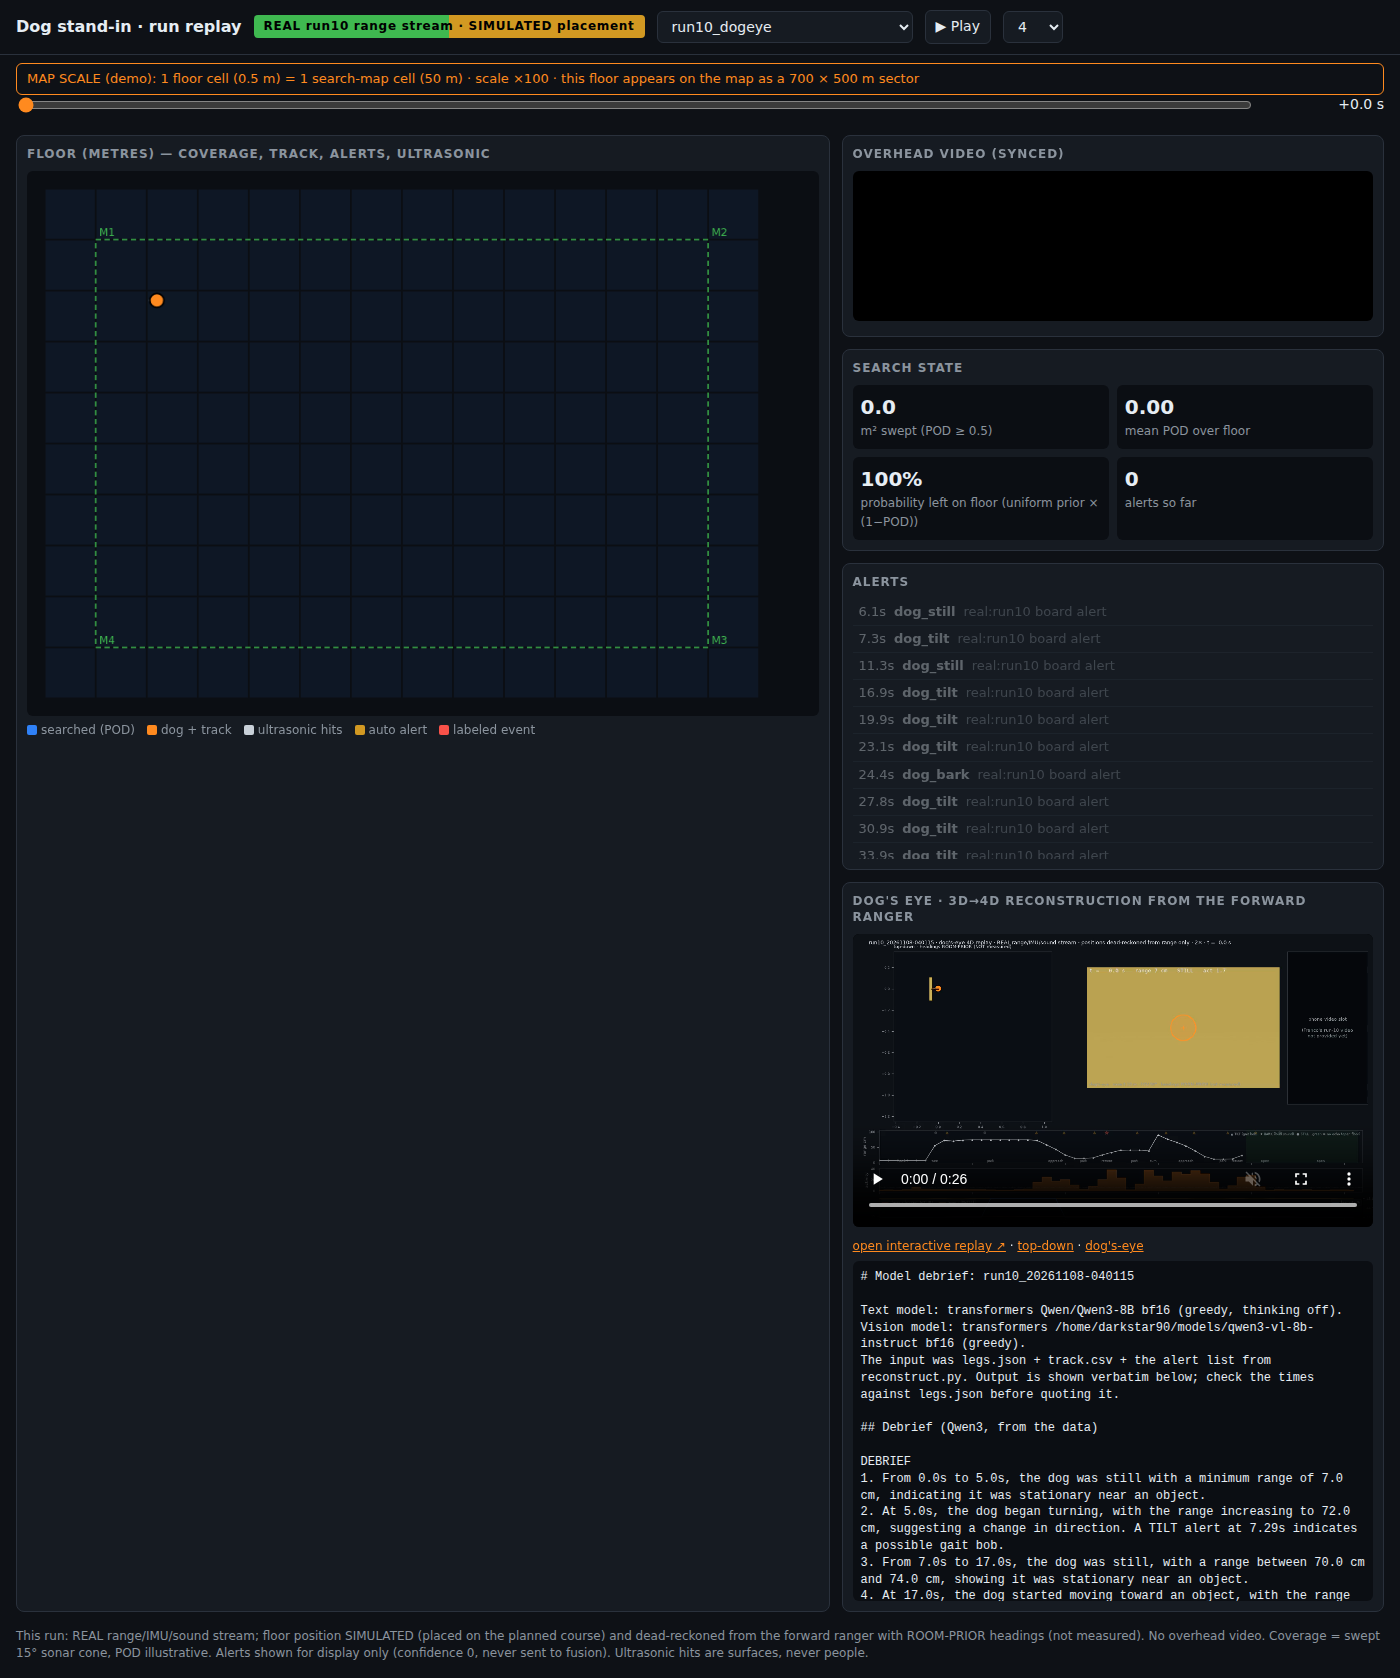
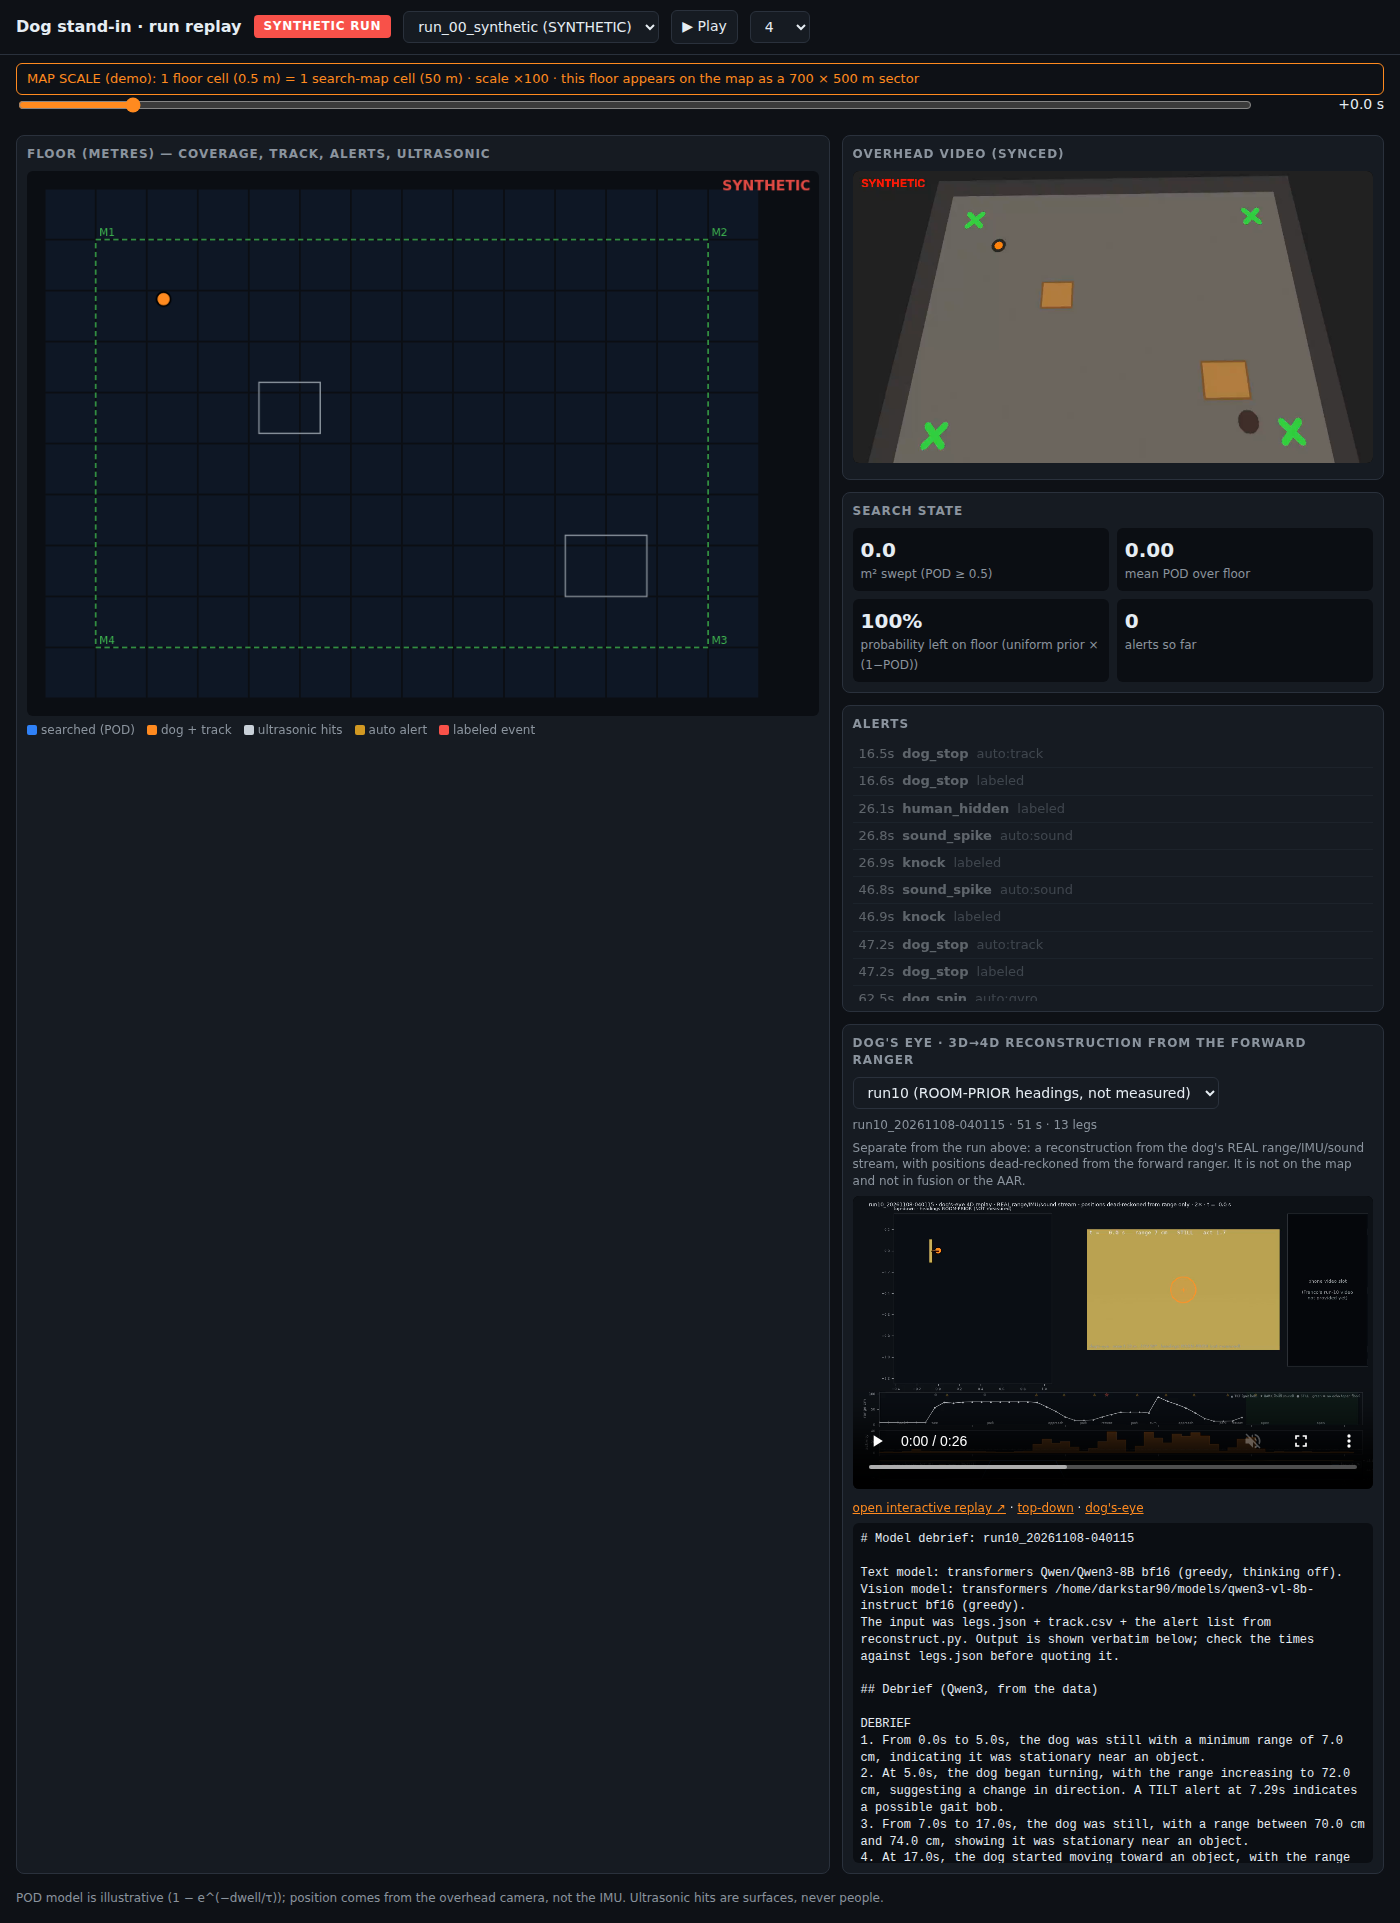
night: :8141 Dog's-eye card reads dogeye/out/ directly, independent of data/dog (demo dog run stays synthetic)

diff --git a/spark/night/code/dog/replay.html b/spark/night/code/dog/replay.html
@@ -10,7 +10,7 @@
 header{display:flex;gap:12px;align-items:center;padding:10px 16px;border-bottom:1px solid var(--line);flex-wrap:wrap}
 h1{font-size:16px;margin:0;font-weight:600}
 .badge{padding:3px 10px;border-radius:4px;font-weight:700;letter-spacing:.06em;font-size:12px}
-.syn{background:var(--bad);color:#fff}.real{background:var(--ok);color:#000}
+.syn{background:var(--bad);color:#fff}.real{background:var(--ok);color:#000}.mix{background:linear-gradient(90deg,var(--ok) 50%,var(--warn) 50%);color:#000}
 select,button{background:var(--panel);color:var(--fg);border:1px solid var(--line);border-radius:6px;padding:6px 10px;font:inherit}
 button{cursor:pointer}button:hover{border-color:var(--acc)}
 main{display:grid;grid-template-columns:minmax(0,1.5fr) minmax(280px,1fr);gap:12px;padding:12px 16px}
@@ -67,6 +67,15 @@ footer{color:var(--mute);font-size:12px;padding:4px 16px 16px}
       </div>
     </div>
     <div class="card"><h2>Alerts</h2><ul id="alerts"></ul></div>
+    <div class="card" id="dogeye" hidden><h2>Dog's eye · 3D→4D reconstruction from the forward ranger</h2>
+      <div style="display:flex;gap:8px;align-items:center;margin-bottom:6px;flex-wrap:wrap"><select id="desel" aria-label="Reconstruction"></select>
+        <span id="demeta" style="color:var(--mute);font-size:12px"></span></div>
+      <div style="color:var(--mute);font-size:12px;margin-bottom:6px">Separate from the run above: a reconstruction from the dog's REAL range/IMU/sound stream, with positions dead-reckoned from the forward ranger. It is not on the map and not in fusion or the AAR.</div>
+      <video id="devid" controls muted playsinline preload="metadata"></video>
+      <div style="margin:6px 0;font-size:12px"><a id="dehtml" target="_blank" style="color:var(--acc)">open interactive replay ↗</a> ·
+        <a id="detop" target="_blank" style="color:var(--acc)">top-down</a> · <a id="deeye" target="_blank" style="color:var(--acc)">dog's-eye</a></div>
+      <pre id="deintel" style="white-space:pre-wrap;font-size:12px;max-height:340px;overflow:auto;background:#0b0e13;padding:8px;border-radius:6px;margin:0"></pre>
+    </div>
   </div>
 </main>
 <footer id="foot">POD model is illustrative (1 − e^(−dwell/τ)); position comes from the overhead camera, not the IMU. Ultrasonic hits are surfaces, never people.</footer>
@@ -85,10 +94,22 @@ async function scaleLabel(){ try{ const k=await (await fetch('api/scale')).json(
  }catch(e){ $('scalebar').textContent='map scale: unavailable'; } }
 async function load(name){
   runName=name; L=await (await fetch(`api/run/${name}/layers`)).json();
-  $('badge').textContent=L.synthetic?'SYNTHETIC RUN':'REAL RUN'; $('badge').className='badge '+(L.synthetic?'syn':'real');
+  $('badge').textContent=L.badge||(L.synthetic?'SYNTHETIC RUN':'REAL RUN'); $('badge').className='badge '+(L.synthetic?'syn':(L.placement==='SIMULATED'?'mix':'real'));
   $('vid').src=`api/run/${name}/video`; t=L.t_start_ms; draw(); scaleLabel();
 }
 $('run').onchange=e=>load(e.target.value);
+let DE=[];
+async function loadDogEye(){ try{ DE=await (await fetch('api/dogeye')).json(); }catch(e){ DE=[]; }
+  if(!DE.length){ $('dogeye').hidden=true; return; }
+  $('dogeye').hidden=false;
+  $('desel').innerHTML=DE.map(d=>`<option value="${d.name}">${d.name} (${d.headings==='room_prior'?'ROOM-PRIOR headings, not measured':'SENSOR-ONLY, 90° turns assumed'})</option>`).join('');
+  $('desel').onchange=e=>showDogEye(e.target.value); showDogEye(DE[0].name); }
+async function showDogEye(name){ const d=DE.find(x=>x.name===name), b=`api/dogeye/${name}/`, has=f=>d.files.includes(f);
+  $('demeta').textContent=`${d.run} · ${d.duration_s} s · ${d.legs} legs`;
+  if(has('replay.mp4')) $('devid').src=b+'replay.mp4'; else $('devid').removeAttribute('src');
+  $('dehtml').href=b+'replay.html'; $('detop').href=b+'topdown.png'; $('deeye').href=b+'dogseye.png';
+  if(!has('intel.md')){ $('deintel').textContent='intel.md not generated for this reconstruction'; return; }
+  try{ const r=await fetch(b+'intel.md'); $('deintel').textContent=r.ok?await r.text():'intel.md unavailable'; }catch(e){ $('deintel').textContent='intel.md unavailable'; } }
 function W2C(){ const [x0,y0,x1,y1]=L.floor_bounds, pad=20; const s=Math.min((cv.width-2*pad)/(x1-x0),(cv.height-2*pad)/(y1-y0));
   return {s, f:(x,y)=>[pad+(x-x0)*s, pad+(y-y0)*s]}; }
 function snapAt(tm){ const S=L.coverage.snapshots; let lo=0,hi=S.length-1; if(tm<S[0].t_ms) return null;
@@ -139,7 +160,7 @@ $('play').onclick=()=>{ playing=!playing; $('play').textContent=playing?'❚❚ 
 $('speed').onchange=()=>{$('vid').playbackRate=+$('speed').value};
 function tick(now){ if(playing&&L){ t+=(now-last)*(+$('speed').value); if(t>=L.t_end_ms){t=L.t_end_ms; playing=false; $('play').textContent='▶ Play'; $('vid').pause();}
     const v=$('vid'); if(!v.paused && Math.abs(v.currentTime-(t-L.offset_ms)/1000)>0.4) v.currentTime=(t-L.offset_ms)/1000; draw(); } last=now; requestAnimationFrame(tick); }
-requestAnimationFrame(tick); loadRuns();
+requestAnimationFrame(tick); loadRuns(); loadDogEye();
 </script>
 </body>
 </html>

diff --git a/spark/night/code/dog/serve.py b/spark/night/code/dog/serve.py
@@ -46,6 +46,39 @@ def video(name: str):
     return FileResponse(p, media_type="video/mp4")
 
 
+DOGEYE_FILES = {"replay.mp4": "video/mp4", "intel.md": "text/markdown; charset=utf-8", "topdown.png": "image/png",
+                "dogseye.png": "image/png", "replay.html": "text/html; charset=utf-8"}
+
+
+DOGEYE_OUT = HERE.parent / "dogeye/out"     # read-only; independent of data/dog (never feeds map, AAR or scenario)
+
+
+@app.get("/api/dogeye")
+def dogeye_list():
+    """Every dog's-eye reconstruction under night/dogeye/out/ that has a legs.json."""
+    out = []
+    for d in sorted(DOGEYE_OUT.glob("*/legs.json")):
+        try:
+            m = json.loads(d.read_text())
+        except Exception:
+            continue
+        sol = "room_prior" if "room_prior" in m.get("solutions", {}) else "sensor_only"
+        out.append({"name": d.parent.name, "run": m.get("run"), "duration_s": m.get("duration_s"),
+                    "legs": len(m.get("legs", [])), "headings": sol,
+                    "files": [f for f in DOGEYE_FILES if (d.parent / f).exists()]})
+    return out
+
+
+@app.get("/api/dogeye/{name}/{fname}")
+def dogeye_file(name: str, fname: str):
+    if fname not in DOGEYE_FILES:
+        raise HTTPException(404)
+    root = DOGEYE_OUT.resolve(); p = (root / name / fname).resolve()
+    if p.parent.parent != root or not p.exists():
+        raise HTTPException(404)
+    return FileResponse(p, media_type=DOGEYE_FILES[fname])
+
+
 @app.get("/api/scale")
 def scale():
     """Floor -> search-map scaling used by fusion and the map (config.json floor_anchor.scale)."""

diff --git a/spark/night/dogeye/README.md b/spark/night/dogeye/README.md
@@ -10,7 +10,7 @@ $P reconstruct.py $R/run10_20261108-040115 out/run10 --room-prior   # legs.json,
 $P scene.py  out/run10                                              # scene.ply, scene.glb, topdown.png, dogseye.png
 $P fourd.py  out/run10                                              # replay.mp4 (26 s, 30 fps, 2×), replay.html
 $P intel.py  out/run10                                              # intel.md (Qwen3-8B debrief + Qwen3-VL reading + fact check)
-$P cop_export.py out/run10 run10_dogeye                             # → night/data/dog/run10_dogeye/layers.json (COP coverage)
+# optional, NOT installed: $P cop_export.py out/run10 run10_dogeye  (would put run 10 into the map/AAR/scenario)
 ```
 The same pipeline runs on walk1 without `--room-prior`, and with `fourd.py --speed 4` (70 s video).
 
@@ -52,11 +52,10 @@ The brief matches the data except for small details. The first MOVING heartbeats
 ## Open model on top (`intel.py`)
 vLLM on :8001 and :8002 was down, so both models ran locally with transformers, bf16 and greedy decoding: **Qwen3-8B** (loads in about 85 s, generates in 65 s) for the debrief, and **Qwen3-VL-8B-Instruct** (`~/models/qwen3-vl-8b-instruct`; the HF-cache copy has no weights) for reading the renders. The prompt requires 10 debrief lines that cite times and ranges, plus the three flags. The model's output is kept verbatim. **Below it, `intel.md` adds a fact check computed by code from track.csv, because the model got some of the details wrong.** In flag A it listed 3 TILTs and called the 6.1 s STILL alert a TILT; the data has 8 of 9 TILTs while MOVING. In flag C it said the last range before echo loss was 12 cm; it was 23 cm at 39 s. The VL answer is labelled **"model reading of a rendered reconstruction, not of the room."**
 
-## Into the COP
-`cop_export.py` writes `night/data/dog/run10_dogeye/layers.json` in the same format as the processed dog runs that `map/serve.py:dog_coverage()`, `fusion/aar.py` and `scenario.py` already read. No code in those files was changed. The coverage raster is the swept cone, put onto the 0.5 m floor grid. POD = covered-area fraction × (1 − e^(−dwell/1.5 s)), which is illustrative, the same τ as the synthetic run. Placement is **SIMULATED**: the start of the planned dog course (the synthetic run's first track point), with the glass-wall leg pointing east. The badge reads **"REAL run10 range stream · SIMULATED placement"**. The result is 6 floor cells with POD > 0.01, max POD 0.37 and none ≥ 0.5. That is a small footprint, because a 15° beam sees very little floor.
-- Alerts are carried for display with **confidence 0**. `scenario.py` skips alerts with confidence ≤ 0, so no TILT or BARK from run 10 ever enters fusion.
-- **Demo impact:** real runs are preferred over SYNTHETIC everywhere. With this folder present, the map's dog coverage, the AAR "area covered" and `scenario.py` all switch to run10_dogeye. scenario.py will then emit **no dog pins** at 3:00. To get the synthetic demo back: `rm -r ~/forge/night/data/dog/run10_dogeye`. Nothing needs restarting, because the map re-reads on each state call.
-- **:8141** has a new **Dog's eye** card, shown only for runs whose layers.json names a dogeye folder. It holds replay.mp4, links to the interactive replay and the renders, and intel.md. The changes are additive: one endpoint in `dog/serve.py` (`/api/run/{name}/dogeye/{file}`, whitelisted file names) and one card plus a run-dependent badge and footer in `dog/replay.html`. Backups: `dogeye/.bak_serve.py`, `dogeye/.bak_replay.html`. The service was restarted (PID logged in `PIDS.txt`).
+## On :8141, and not in the COP
+The **Dog's eye** card on :8141 lists every reconstruction under `dogeye/out/` that has a `legs.json` (today run10 and walk1). It reads them directly from there through `GET /api/dogeye` and `GET /api/dogeye/{name}/{file}`, with file names whitelisted to replay.mp4, intel.md, topdown.png, dogseye.png and replay.html. It does **not** depend on `data/dog/`, so the run selector, the map's dog coverage, `scenario.py` and the AAR all stay on `run_00_synthetic`. The card says so on screen. The changes are confined to that card: two endpoints in `dog/serve.py` and the card in `dog/replay.html`. Backups of the pre-dogeye files: `dogeye/.bak_serve.py`, `dogeye/.bak_replay.html`.
+
+`cop_export.py` is kept but **not installed**. It would write `night/data/dog/run10_dogeye/layers.json` in the processed-run format (coverage = swept cone on the 0.5 m grid, POD illustrative; SIMULATED placement at the start of the planned course; alerts at confidence 0, so scenario.py never emits them). Because real runs are preferred over SYNTHETIC, installing it would switch the map, the AAR and scenario.py (which would then drop no dog pins) to run 10. It was removed at the user's request on Nov 8. Re-add it only deliberately: `$P cop_export.py out/run10 run10_dogeye`; undo with `rm -r ~/forge/night/data/dog/run10_dogeye`.
 
 ## Limits
 - **Single forward range at 1 Hz.** There is nothing to the sides. Motion is assumed to be along the beam. A sideways drift or a slow turn inside a block looks like a range change. 1 Hz under-samples a 15 cm/s approach (15 cm per sample).

diff --git a/spark/night/dogeye/WORKLOG.md b/spark/night/dogeye/WORKLOG.md
@@ -3,3 +3,6 @@
 - 10:12 Read night/README + DEMO_FLOW. Verified run10 HB/alerts by hand: matches the brief except HB at t=4–5 s say MOVING (activity 6.8/3.6) while still at 7 cm; BARK at 24.45 s; echo lost from 40 s; STILL from 44 s. vLLM :8001/:8002 down → transformers path (Qwen3-8B, Qwen3-VL-8B cached). trimesh/pygltflib → dogeye/vendor (shared venv untouched).
 - 10:21 reconstruct.py: run10 → 4 heading blocks, 13 legs (park/turn/approach/park/retreat/park/turn/approach/park/retreat/open/open); arrival at glass wall 21 s (14 cm, 14.5 cm/s), side wall 36 s (11 cm, 13.2 cm/s). walk1 → 47 heading blocks / 88 legs: echo comes and goes constantly, so sensor-only dead reckoning is noise there (reported as a limit, not hidden). scene.py: ply 7972 pts, glb via vendor trimesh, topdown + dogseye PNGs. fourd.py: replay.mp4 26.0 s (30 fps, 2×), replay.html self-contained. Turning intervals get no coverage credit (heading unknown). cop_export.py → night/data/dog/run10_dogeye/layers.json (alerts confidence 0 = never sent to fusion). :8141 restarted with additive Dog's-eye panel (backups .bak_serve.py/.bak_replay.html). Qwen3-8B transformers load ~85 s; first try failed on transformers-5 chat-template API, fixed and re-running.
 - 10:26 intel.py done: Qwen3-8B (load 85 s, gen 65 s) + Qwen3-VL-8B from ~/models (HF cache copy has no weights; load 90 s, gen 22 s). Model debrief has errors (flag A lists 3 TILTs incl. the 6.1 s STILL; flag C says last range 12 cm, data 23 cm) → code fact-check table appended to intel.md. replay.html bug fixed (function `top` shadowed window.top). :8141 footer now run-dependent (old text claimed overhead-camera positions). Screenshots in screenshots/. README written. Next: copy to Team-3/spark/night/dogeye, commit, push.
+- 10:26 Copied to Team-3/spark/night/dogeye, committed af680eb on main, pull --rebase, pushed. night tests re-run (see report).
+- 10:29 User removed night/data/dog/run10_dogeye → demo back on run_00_synthetic (dogeye outputs kept in dogeye/out/; re-add with cop_export.py out/run10 run10_dogeye).
+- 10:33 Dog's-eye card on :8141 now lists dogeye/out/* via /api/dogeye (independent of data/dog; demo stays on run_00_synthetic). Old run-scoped endpoint removed. :8141 restarted (PIDS.txt fixed: the 10:2x entry had logged a wrong pid). Night tests 14/14.
